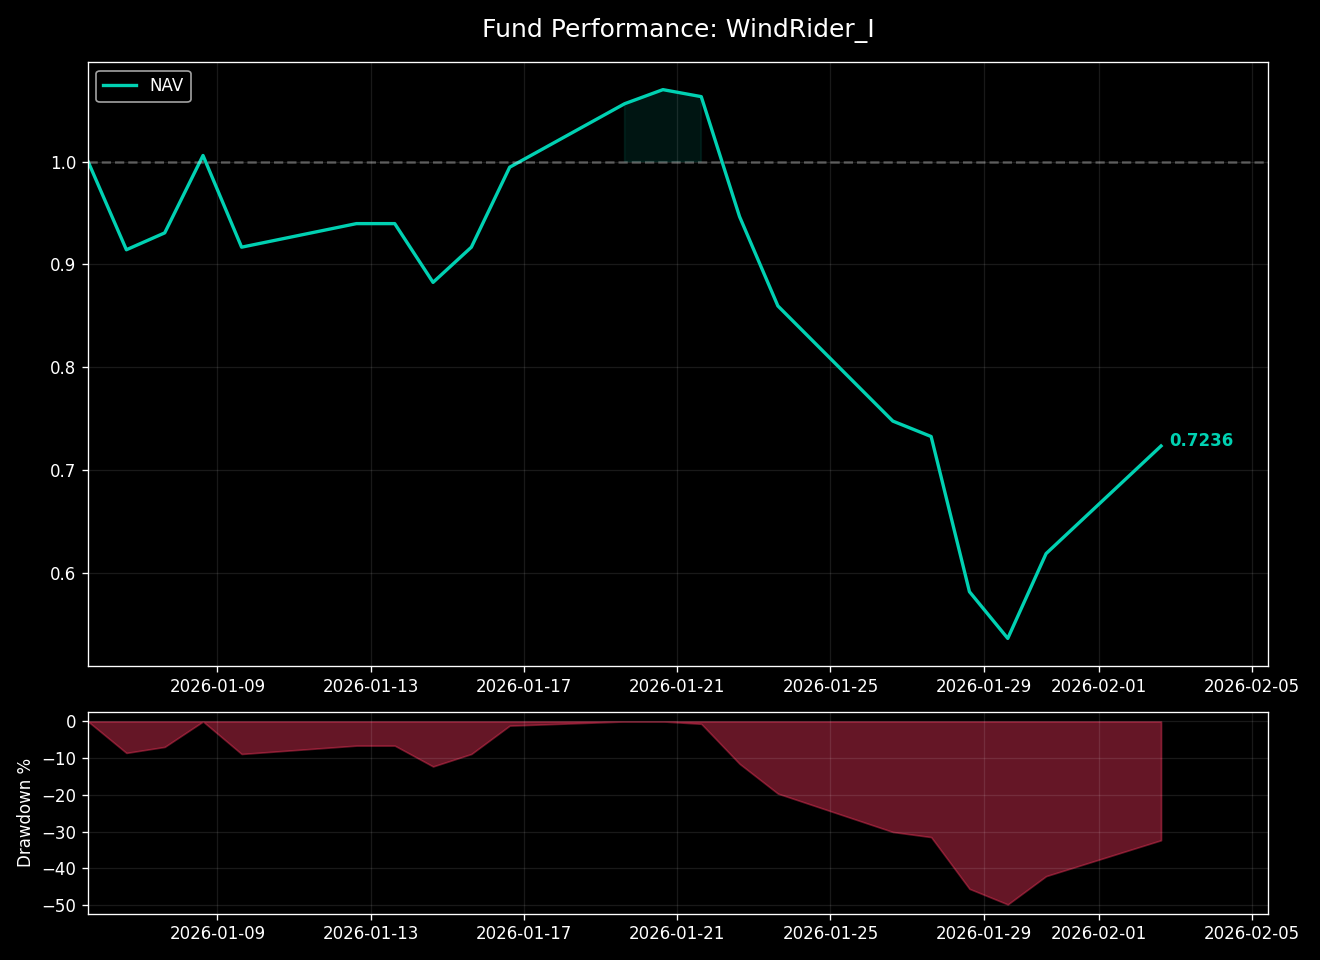
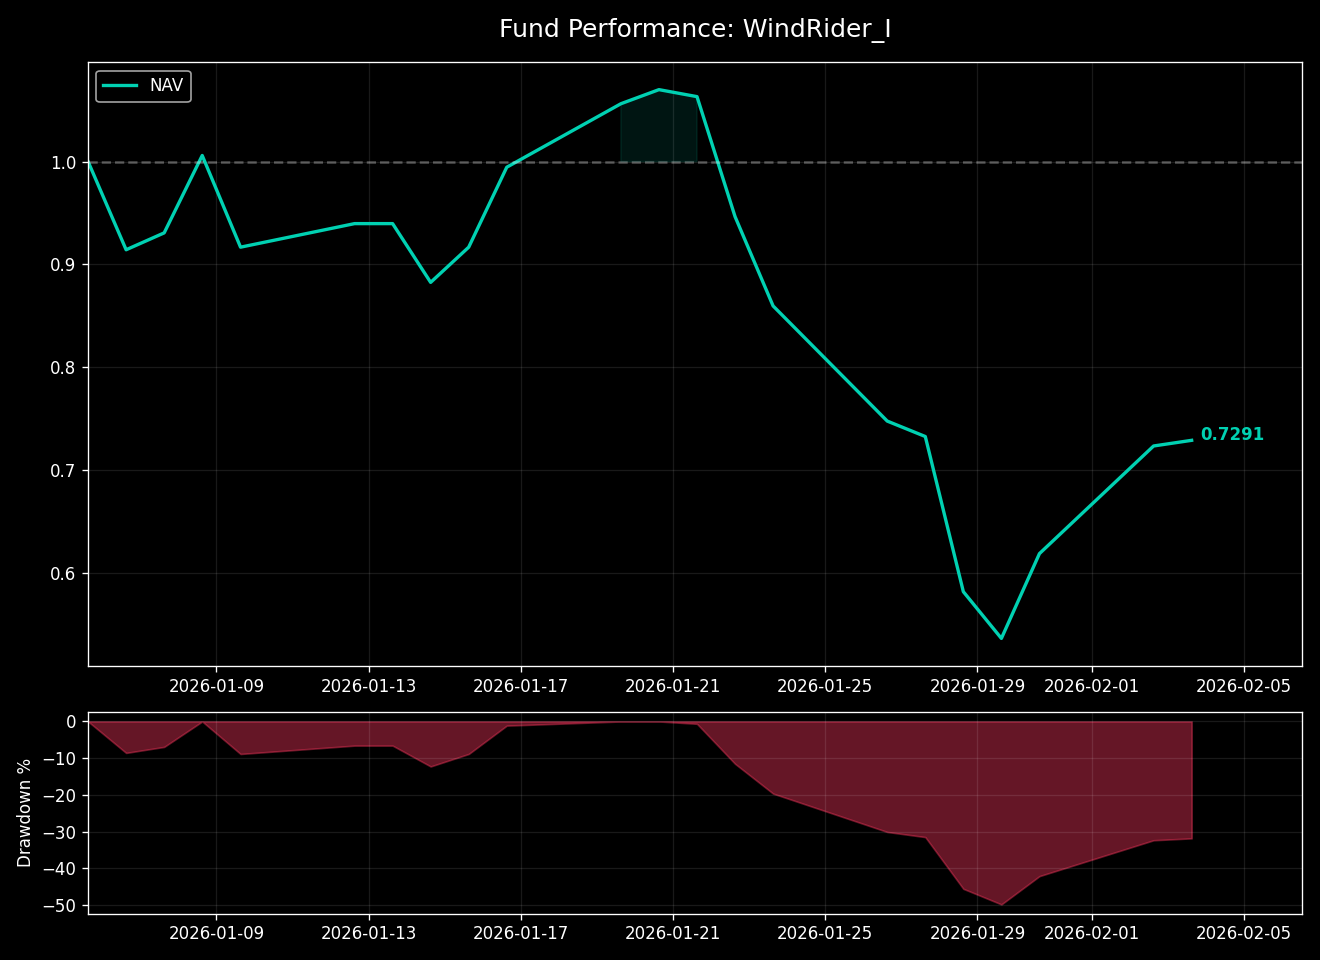
Updated Hugo site content

diff --git a/content/investment/windrider-1.md b/content/investment/windrider-1.md
@@ -1,8 +1,8 @@
 +++
 title = "风舵1号 (WindRider I)  /// 指数"
 summary = "商品期货分形摆动策略，实盘最新净值与核心风险指标。"
-date = 2026-02-02T16:54:43+08:00
-lastmod = 2026-02-02T16:54:43+08:00
+date = 2026-02-03T15:15:04+08:00
+lastmod = 2026-02-03T15:15:04+08:00
 draft = false
 description = "商品期货分形摆动策略实盘"
 +++
@@ -15,24 +15,24 @@ description = "商品期货分形摆动策略实盘"
 
 ### 风舵1号 (WindRider I) &nbsp;&nbsp;<span style="color: #E63946; font-weight: bold;">/</span><span style="color: #F1A73E; font-weight: bold;">/</span><span style="color: #000091; font-weight: bold;">/</span>&nbsp;&nbsp; 指数
 商品期货分形摆动策略实盘<br>
-净值简报 <small>(截至: 2026-02-02)</small>
+净值简报 <small>(截至: 2026-02-03)</small>
 
 |  |  |
 | :--- | :--- |
 | **指数代码：** | WDR1.CTA |
 | **起步日期：** | 2026-01-05 |
-| **最新净值：** | 0.7236 |
-| **今日涨跌：** | +16.90% |
+| **最新净值：** | 0.7291 |
+| **今日涨跌：** | +0.76% |
 
 ===========================
 
 | 核心指标 | |
 | :--- | :--- |
-| **累计涨跌：** | -27.64% |
-| **年化收益：** | -98.53% |
+| **累计涨跌：** | -27.09% |
+| **年化收益：** | -98.12% |
 | **最大回撤：** | -49.85% |
-| **卡玛比率：** | -1.98 |
-| **策略状态：** | 已运行 29 天 |
+| **卡玛比率：** | -1.97 |
+| **策略状态：** | 已运行 30 天 |
 
 ### 净值曲线图
 ![风舵1号净值曲线](/images/investment/windrider_nav.png)
